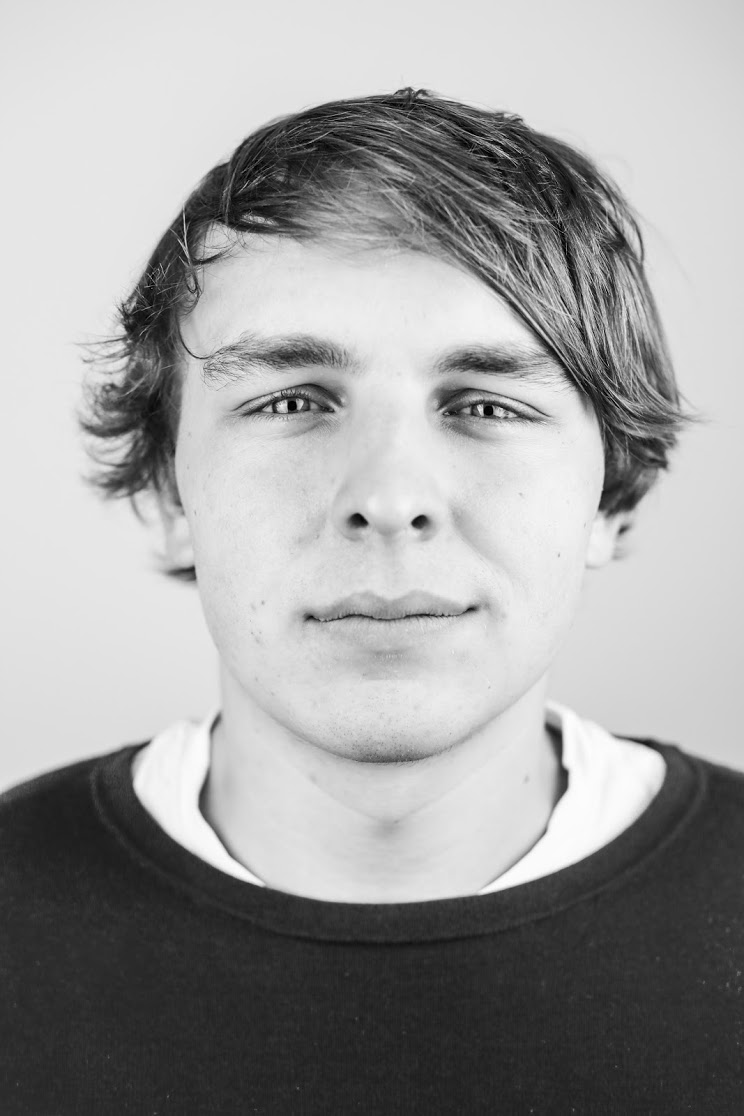
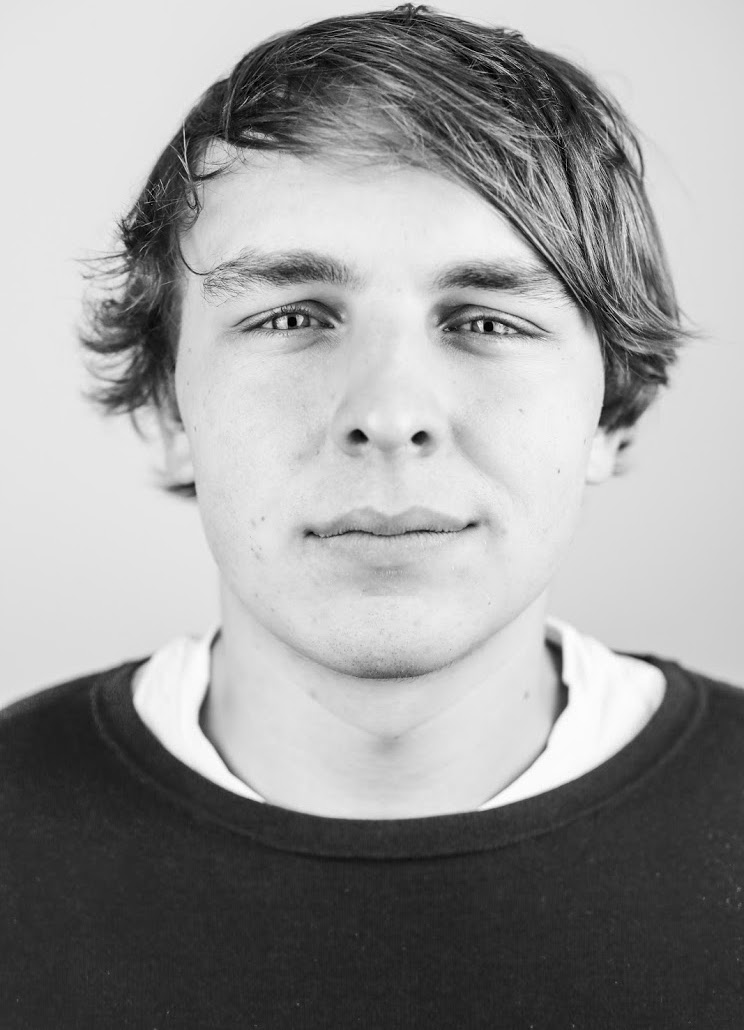
pictures in

Changed region(s): [[0.0927, 0.0, 0.9274, 0.7456], [0.0, 0.5592, 1.0, 0.8388], [0.9892, 0.8699, 1.0, 0.901]]

diff --git a/index.html b/index.html
@@ -14,42 +14,43 @@
 			<div id="header">
 				<!-- <span class="logo icon fa-paper-plane-o"></span> -->
         <div class="facePicture"></div>
-				<h1>Hi. This is Directive.</h1>
-				<p>A responsive HTML5 + CSS3 site template designed by <a href="http://html5up.net">HTML5 UP</a>
-				<br />
-				and released for free under the <a href="http://html5up.net/license">Creative Commons license</a>.</p>
+				<h1>Oliver Forster</h1>
+				<p>I have recently made the change from cheffing into web development as I have always had an interest in technology. I made this choice as I felt web development is a better environment to work as part of a team to build great things.</p>
 			</div>
 
 		<!-- Main -->
 			<div id="main">
 
 				<header class="major container 75%">
-					<h2>We conduct experiments that
-					<br />
-					may or may not seriously
-					<br />
-					break the universe</h2>
+					<h2>Projects, click on the image for the demo</h2>
 				</header>
 
 				<div class="box alt container">
 					<section class="feature left">
-						<a href="#" class="image icon fa-signal"><img src="images/pic01.jpg" alt="" /></a>
+						<a href="https://evening-springs-36184.herokuapp.com" target="_blank" class="image icon fa-signal"><img class="project" src="images/project1.png" alt="" /></a>
 						<div class="content">
-							<h3>The First Thing</h3>
-							<p>Vitae natoque dictum etiam semper magnis enim feugiat amet curabitur tempor orci penatibus. Tellus erat mauris ipsum fermentum etiam vivamus eget. Nunc nibh morbi quis fusce lacus.</p>
+							<h3>8 Brit Racer</h3>
+							<p>is a two player racing game based on the 1983 arcade game called Track and Field. It was my first project at GA and was built using JQuery, HTML and CSS. Although not particularly complicated as my first major project it taught me a lot about how to manage my time effectively as well as some more advanced JQuery. </p>
 						</div>
 					</section>
 					<section class="feature right">
-						<a href="#" class="image icon fa-code"><img src="images/pic02.jpg" alt="" /></a>
+						<a href="https://sleepy-forest-44189.herokuapp.com" class="image icon fa-code" target="_blank"><img class="project" src="images/project2.png" alt="" /></a>
 						<div class="content">
 							<h3>The Second Thing</h3>
 							<p>Vitae natoque dictum etiam semper magnis enim feugiat amet curabitur tempor orci penatibus. Tellus erat mauris ipsum fermentum etiam vivamus eget. Nunc nibh morbi quis fusce lacus.</p>
 						</div>
 					</section>
 					<section class="feature left">
-						<a href="#" class="image icon fa-mobile"><img src="images/pic03.jpg" alt="" /></a>
+						<a href="http://greenhub.herokuapp.com/" target="_blank" class="image icon fa-mobile"><img class="project" src="images/project3.png" alt="" /></a>
 						<div class="content">
 							<h3>The Third Thing</h3>
+							<p>Vitae natoque dictum etiam semper magnis enim feugiat amet curabitur tempor orci penatibus. Tellus erat mauris ipsum fermentum etiam vivamus eget. Nunc nibh morbi quis fusce lacus.</p>
+						</div>
+					</section>
+					<section class="feature right">
+						<a href="https://sofaking.herokuapp.com/#/" class="image icon fa-code" target="_blank"><img class="project" src="images/project4.png" alt="" /></a>
+						<div class="content">
+							<h3>The Second Thing</h3>
 							<p>Vitae natoque dictum etiam semper magnis enim feugiat amet curabitur tempor orci penatibus. Tellus erat mauris ipsum fermentum etiam vivamus eget. Nunc nibh morbi quis fusce lacus.</p>
 						</div>
 					</section>

diff --git a/css/main.css b/css/main.css
@@ -3140,6 +3140,18 @@
 		text-align: center;
 		width: 3.4em;
 		background-image: url(images/my-face.jpg);
-		background-repeat: no-repeat;
 		background-size: cover;
+		background-position: top;
+	}
+	.facePicture:hover {
+		background-image: url(images/myotherface.jpg);
+	}
+	.project {
+		background-position: center;
+		background-size: contain;
+		width: 100%;
+		height: 100%;
+	}
+	.image.icon:before {
+		color: transparent;
 	}
